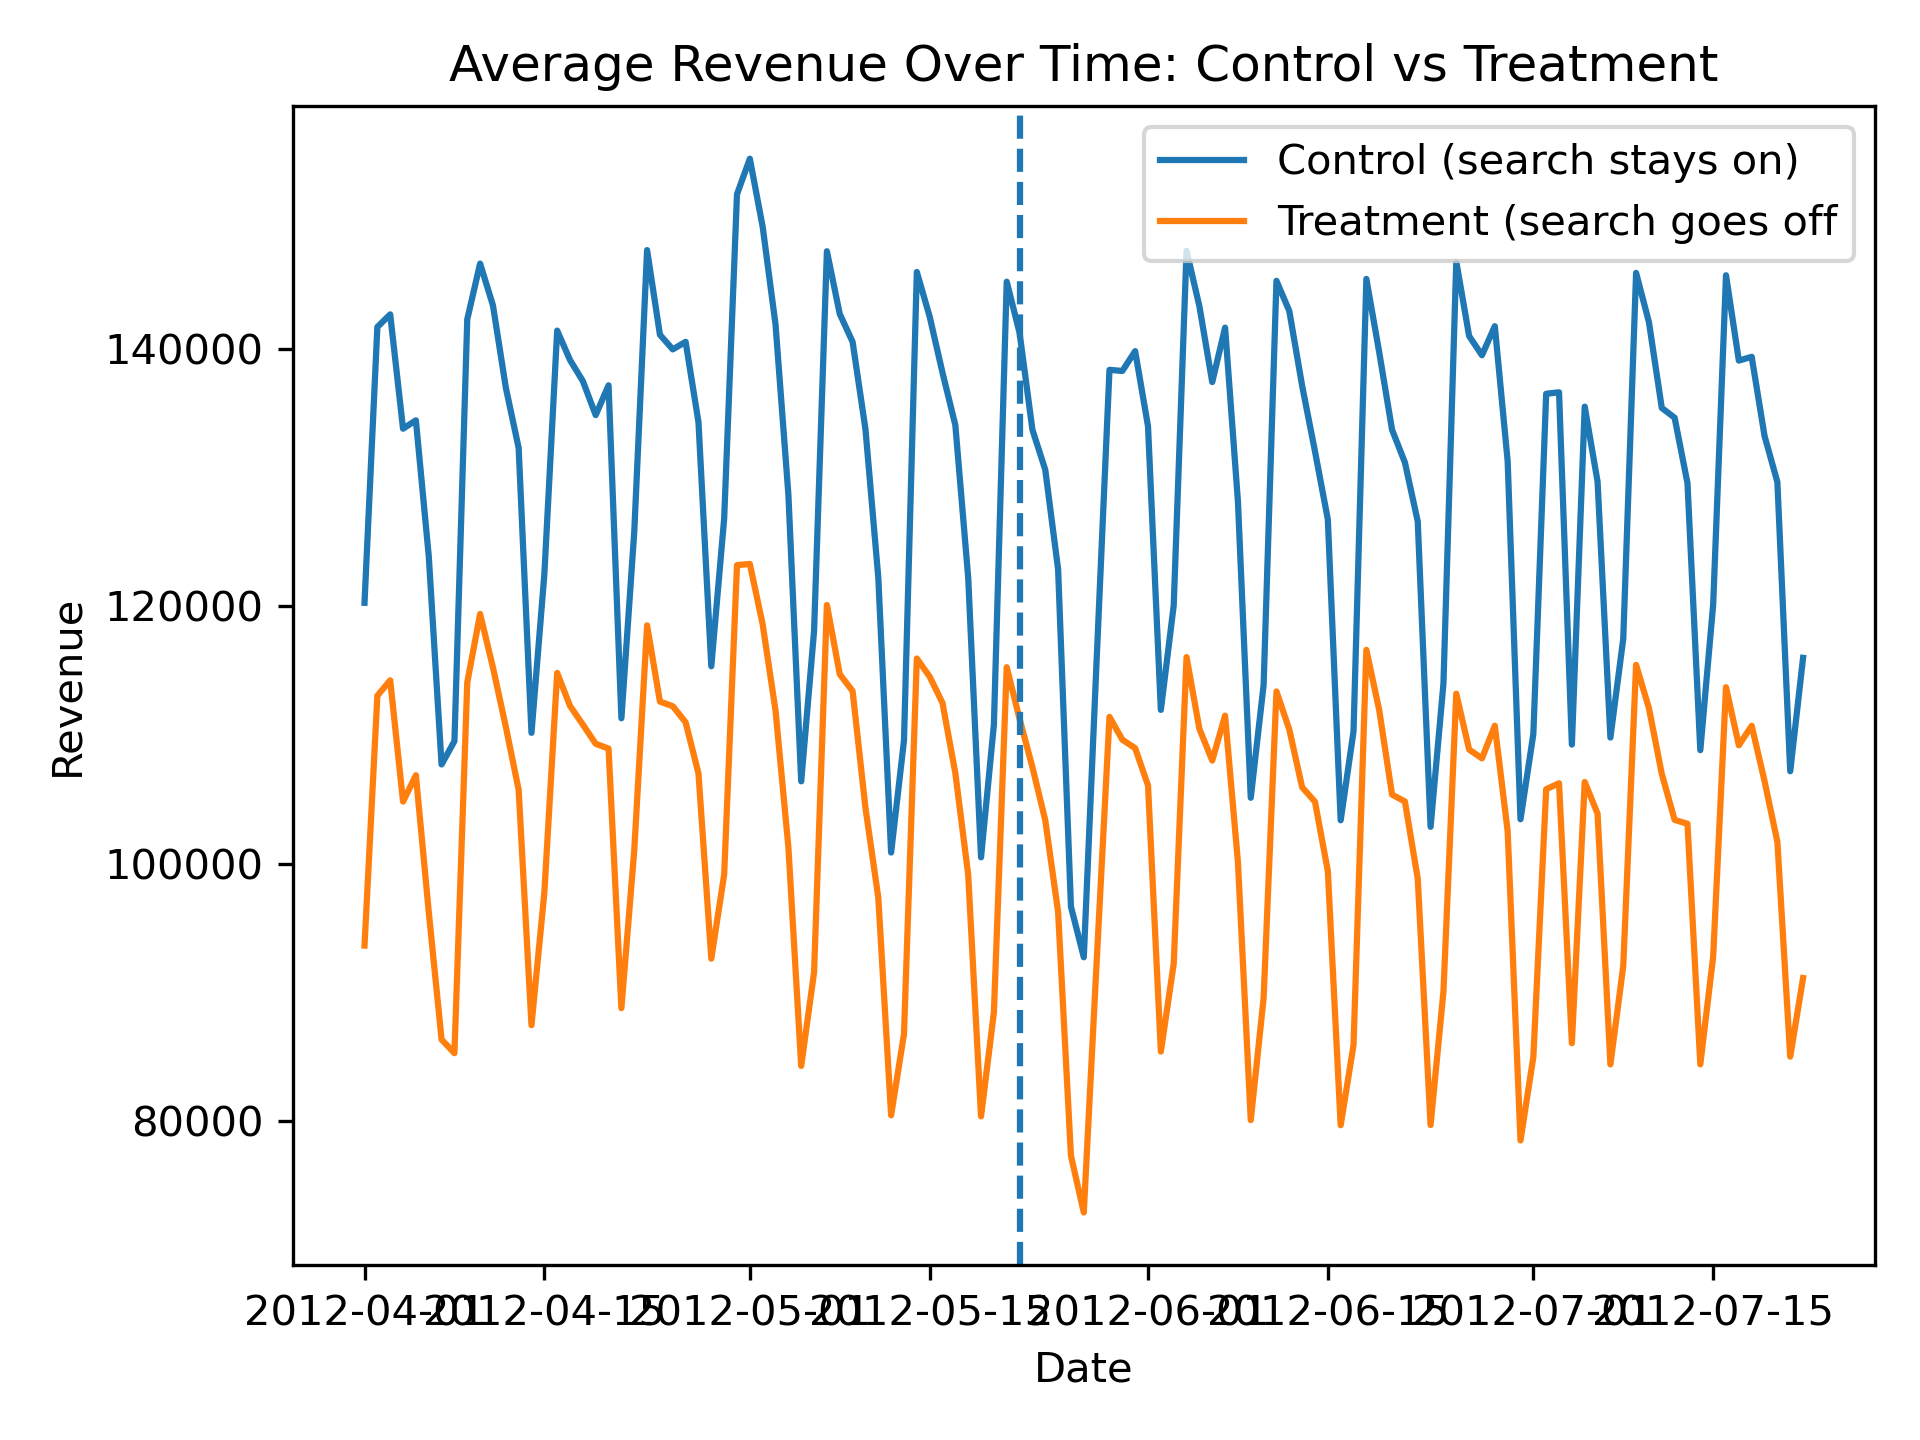
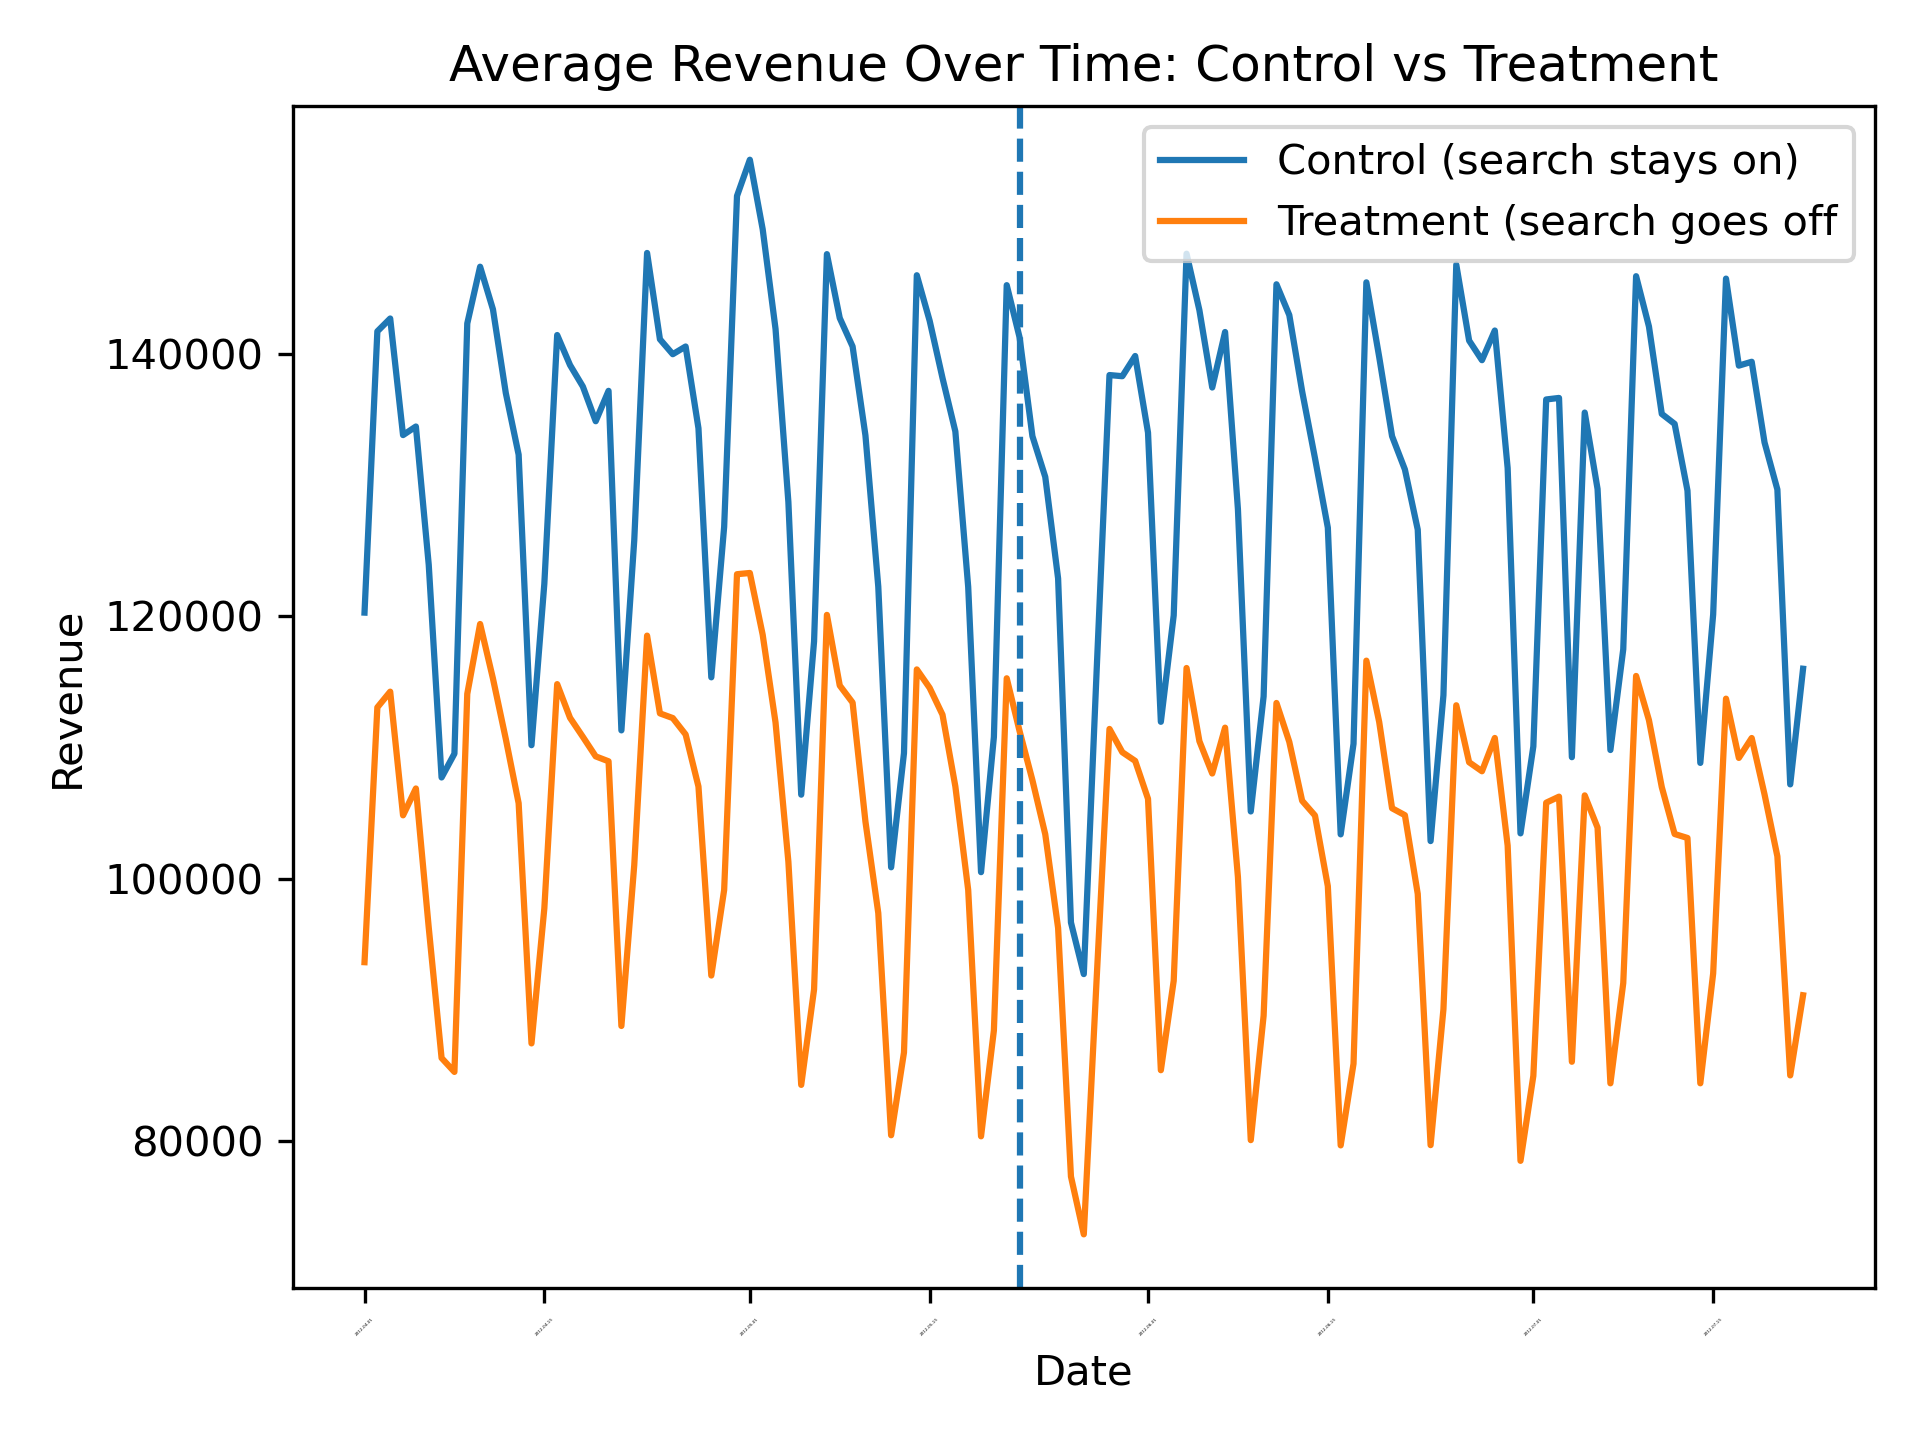
Add preprocessing script and reproduce Figures 5.2 and 5.3

diff --git a/code/preprocess.py b/code/preprocess.py
@@ -2,6 +2,7 @@
 import pandas as pd
 import numpy as np
 import matplotlib.pyplot as plt
+import matplotlib.dates as mdates
 
 # Load data
 df = pd.read_csv('input/PaidSearch.csv')
@@ -71,6 +72,7 @@ plt.xlabel("Date")
 plt.ylabel("Revenue")
 plt.title("Average Revenue Over Time: Control vs Treatment")
 plt.legend()
+plt.xticks(fontsize = 0, rotation = 45)
 plt.tight_layout()
 plt.savefig("output/figures/figure_5_2.png", dpi=300)
 plt.close()
@@ -93,6 +95,9 @@ plt.axvline(pd.Timestamp("2022-05-22"), linestyle = "--")
 plt.xlabel("Date")
 plt.ylabel("log(rev_control) - log(rev_treat)")
 plt.title("Log Revenue Gap Over Time (Control - Treatment)")
+plt.xlim(daily_log_pivot.index.min(), daily_log_pivot.index.max())
+plt.gca().xaxis.set_major_formatter(mdates.DateFormatter('%m-%d'))
+plt.xticks(rotation=45, fontsize=8)
 plt.tight_layout()
 plt.savefig("output/figures/figure_5_3.png", dpi=300)
 plt.close()
